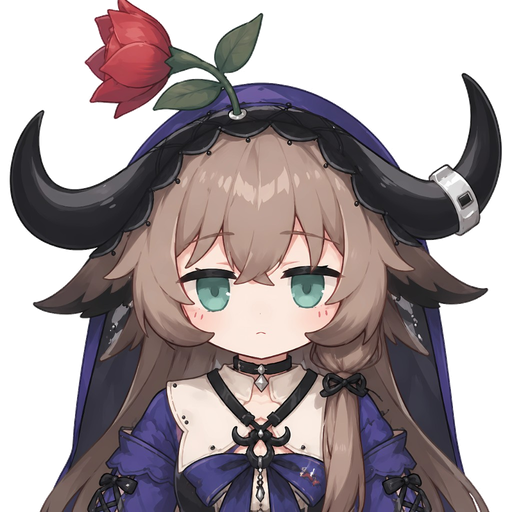
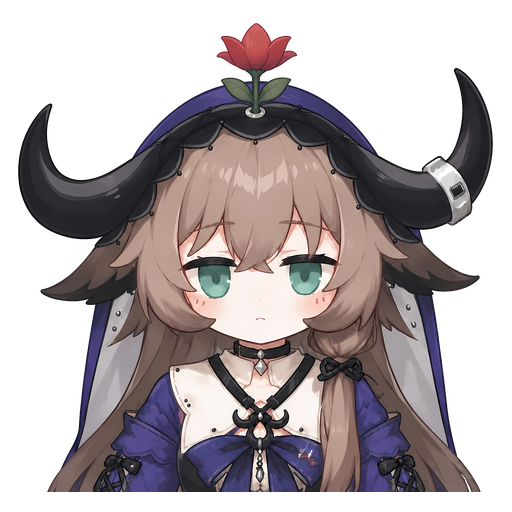
docs(plugins): 更新品牌头像与 README 版本徽章

diff --git a/docs/plugins/blacklist/README.md b/docs/plugins/blacklist/README.md
@@ -9,6 +9,7 @@
 <p align="center">
   <img alt="本体 core" src="https://img.shields.io/badge/%E6%9C%AC%E4%BD%93%20core-4B5563">
   <img alt="默认加载" src="https://img.shields.io/badge/%E9%BB%98%E8%AE%A4%E5%8A%A0%E8%BD%BD-4EA94B">
+  <img alt="版本 4.0.0" src="https://img.shields.io/badge/%E7%89%88%E6%9C%AC-4.0.0-2563EB">
 </p>
 
 ## 安装方式

diff --git a/docs/plugins/bot_status/README.md b/docs/plugins/bot_status/README.md
@@ -10,6 +10,7 @@
   <img alt="官方插件" src="https://img.shields.io/badge/%E5%AE%98%E6%96%B9%E6%8F%92%E4%BB%B6-FE7D37">
   <img alt="控制台插件商店" src="https://img.shields.io/badge/%E6%8E%A7%E5%88%B6%E5%8F%B0-%E6%8F%92%E4%BB%B6%E5%95%86%E5%BA%97-4EA94B">
   <img alt="安装命令" src="https://img.shields.io/badge/uv%20run%20pallas%20ext%20install%20pallas--plugin--bot--status-586069">
+  <img alt="版本 4.0.0" src="https://img.shields.io/badge/%E7%89%88%E6%9C%AC-4.0.0-2563EB">
 </p>
 
 ## 安装方式

diff --git a/docs/plugins/chat/README.md b/docs/plugins/chat/README.md
@@ -10,6 +10,7 @@
   <img alt="官方插件" src="https://img.shields.io/badge/%E5%AE%98%E6%96%B9%E6%8F%92%E4%BB%B6-FE7D37">
   <img alt="控制台插件商店" src="https://img.shields.io/badge/%E6%8E%A7%E5%88%B6%E5%8F%B0-%E6%8F%92%E4%BB%B6%E5%95%86%E5%BA%97-4EA94B">
   <img alt="安装命令" src="https://img.shields.io/badge/uv%20run%20pallas%20ext%20install%20pallas--plugin--ai--media-586069">
+  <img alt="版本 4.0.0" src="https://img.shields.io/badge/%E7%89%88%E6%9C%AC-4.0.0-2563EB">
 </p>
 
 ## 安装方式

diff --git a/docs/plugins/draw/README.md b/docs/plugins/draw/README.md
@@ -10,6 +10,7 @@
   <img alt="官方插件" src="https://img.shields.io/badge/%E5%AE%98%E6%96%B9%E6%8F%92%E4%BB%B6-FE7D37">
   <img alt="WebUI 插件商店" src="https://img.shields.io/badge/WebUI-%E6%8F%92%E4%BB%B6%E5%95%86%E5%BA%97-4EA94B">
   <img alt="安装命令" src="https://img.shields.io/badge/uv%20run%20pallas%20ext%20install%20pallas--plugin--draw-586069">
+  <img alt="版本 4.0.0" src="https://img.shields.io/badge/%E7%89%88%E6%9C%AC-4.0.0-2563EB">
 </p>
 
 ## 安装方式

diff --git a/docs/plugins/dream/README.md b/docs/plugins/dream/README.md
@@ -10,6 +10,7 @@
   <img alt="官方插件" src="https://img.shields.io/badge/%E5%AE%98%E6%96%B9%E6%8F%92%E4%BB%B6-FE7D37">
   <img alt="控制台插件商店" src="https://img.shields.io/badge/%E6%8E%A7%E5%88%B6%E5%8F%B0-%E6%8F%92%E4%BB%B6%E5%95%86%E5%BA%97-4EA94B">
   <img alt="安装命令" src="https://img.shields.io/badge/uv%20run%20pallas%20ext%20install%20pallas--plugin--dream-586069">
+  <img alt="版本 4.0.0" src="https://img.shields.io/badge/%E7%89%88%E6%9C%AC-4.0.0-2563EB">
 </p>
 
 ## 安装方式

diff --git a/docs/plugins/drink/README.md b/docs/plugins/drink/README.md
@@ -9,6 +9,7 @@
 <p align="center">
   <img alt="本体 core" src="https://img.shields.io/badge/%E6%9C%AC%E4%BD%93%20core-4B5563">
   <img alt="默认加载" src="https://img.shields.io/badge/%E9%BB%98%E8%AE%A4%E5%8A%A0%E8%BD%BD-4EA94B">
+  <img alt="版本 4.0.0" src="https://img.shields.io/badge/%E7%89%88%E6%9C%AC-4.0.0-2563EB">
 </p>
 
 ## 安装方式

diff --git a/docs/plugins/duel/README.md b/docs/plugins/duel/README.md
@@ -10,6 +10,7 @@
   <img alt="官方插件" src="https://img.shields.io/badge/%E5%AE%98%E6%96%B9%E6%8F%92%E4%BB%B6-FE7D37">
   <img alt="WebUI 插件商店" src="https://img.shields.io/badge/WebUI-%E6%8F%92%E4%BB%B6%E5%95%86%E5%BA%97-4EA94B">
   <img alt="安装命令" src="https://img.shields.io/badge/uv%20run%20pallas%20ext%20install%20pallas--plugin--duel-586069">
+  <img alt="版本 4.0.0" src="https://img.shields.io/badge/%E7%89%88%E6%9C%AC-4.0.0-2563EB">
 </p>
 
 ## 安装方式

diff --git a/docs/plugins/greeting/README.md b/docs/plugins/greeting/README.md
@@ -9,6 +9,7 @@
 <p align="center">
   <img alt="本体 core" src="https://img.shields.io/badge/%E6%9C%AC%E4%BD%93%20core-4B5563">
   <img alt="默认加载" src="https://img.shields.io/badge/%E9%BB%98%E8%AE%A4%E5%8A%A0%E8%BD%BD-4EA94B">
+  <img alt="版本 4.0.0" src="https://img.shields.io/badge/%E7%89%88%E6%9C%AC-4.0.0-2563EB">
 </p>
 
 ## 安装方式

diff --git a/docs/plugins/help/README.md b/docs/plugins/help/README.md
@@ -9,6 +9,7 @@
 <p align="center">
   <img alt="本体 core" src="https://img.shields.io/badge/%E6%9C%AC%E4%BD%93%20core-4B5563">
   <img alt="默认加载" src="https://img.shields.io/badge/%E9%BB%98%E8%AE%A4%E5%8A%A0%E8%BD%BD-4EA94B">
+  <img alt="版本 4.0.0" src="https://img.shields.io/badge/%E7%89%88%E6%9C%AC-4.0.0-2563EB">
 </p>
 
 ## 安装方式

diff --git a/docs/plugins/llm_chat/README.md b/docs/plugins/llm_chat/README.md
@@ -9,6 +9,7 @@
 <p align="center">
   <img alt="本体 core" src="https://img.shields.io/badge/%E6%9C%AC%E4%BD%93%20core-4B5563">
   <img alt="默认加载" src="https://img.shields.io/badge/%E9%BB%98%E8%AE%A4%E5%8A%A0%E8%BD%BD-4EA94B">
+  <img alt="版本 4.0.0" src="https://img.shields.io/badge/%E7%89%88%E6%9C%AC-4.0.0-2563EB">
 </p>
 
 ## 安装方式

diff --git a/docs/plugins/maa/README.md b/docs/plugins/maa/README.md
@@ -10,6 +10,7 @@
   <img alt="官方插件" src="https://img.shields.io/badge/%E5%AE%98%E6%96%B9%E6%8F%92%E4%BB%B6-FE7D37">
   <img alt="WebUI 插件商店" src="https://img.shields.io/badge/WebUI-%E6%8F%92%E4%BB%B6%E5%95%86%E5%BA%97-4EA94B">
   <img alt="安装命令" src="https://img.shields.io/badge/uv%20run%20pallas%20ext%20install%20pallas--plugin--maa-586069">
+  <img alt="版本 4.0.0" src="https://img.shields.io/badge/%E7%89%88%E6%9C%AC-4.0.0-2563EB">
 </p>
 
 ## 安装方式

diff --git a/docs/plugins/pb_core/README.md b/docs/plugins/pb_core/README.md
@@ -9,6 +9,7 @@
 <p align="center">
   <img alt="本体 core" src="https://img.shields.io/badge/%E6%9C%AC%E4%BD%93%20core-4B5563">
   <img alt="默认加载" src="https://img.shields.io/badge/%E9%BB%98%E8%AE%A4%E5%8A%A0%E8%BD%BD-4EA94B">
+  <img alt="版本 4.0.0" src="https://img.shields.io/badge/%E7%89%88%E6%9C%AC-4.0.0-2563EB">
 </p>
 
 ## 安装方式